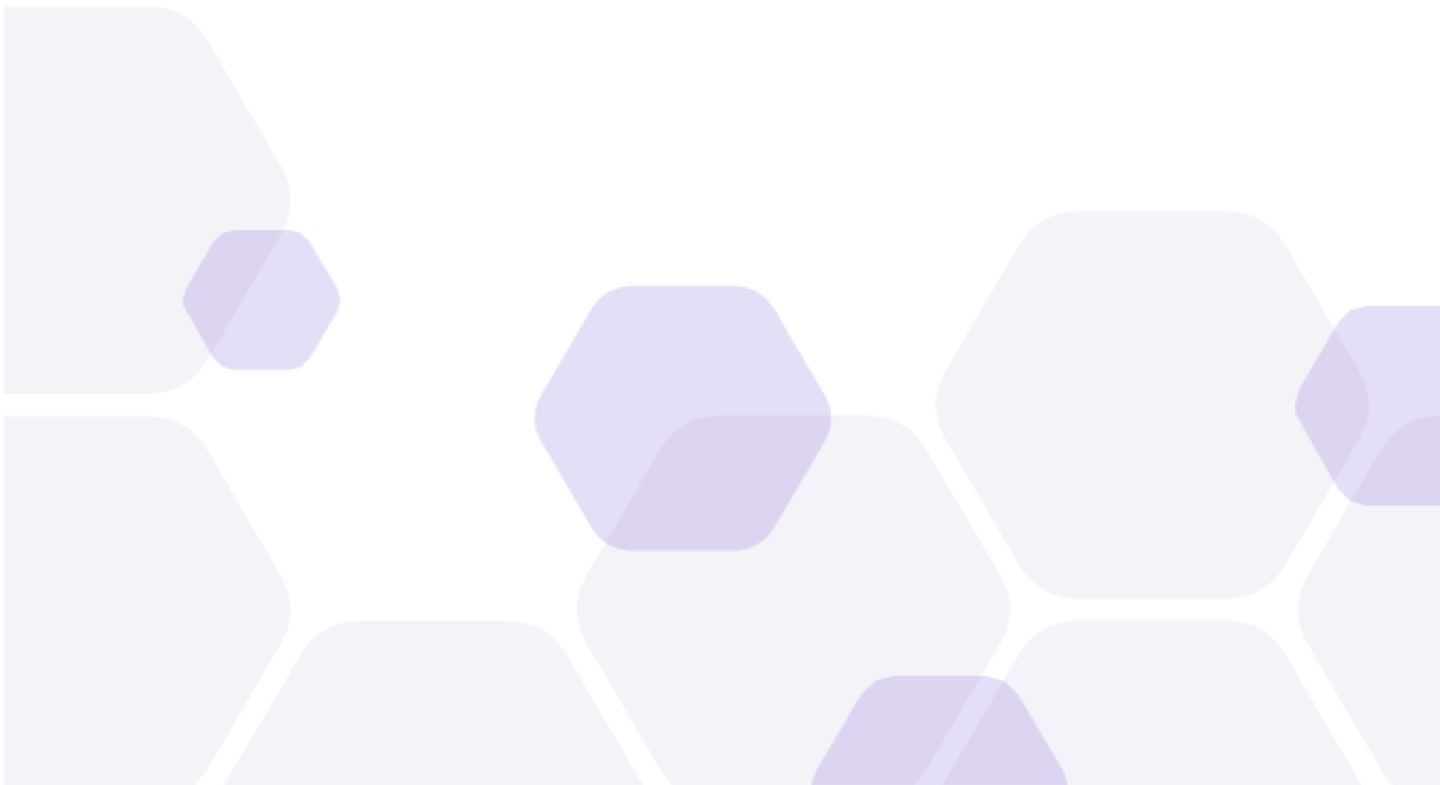
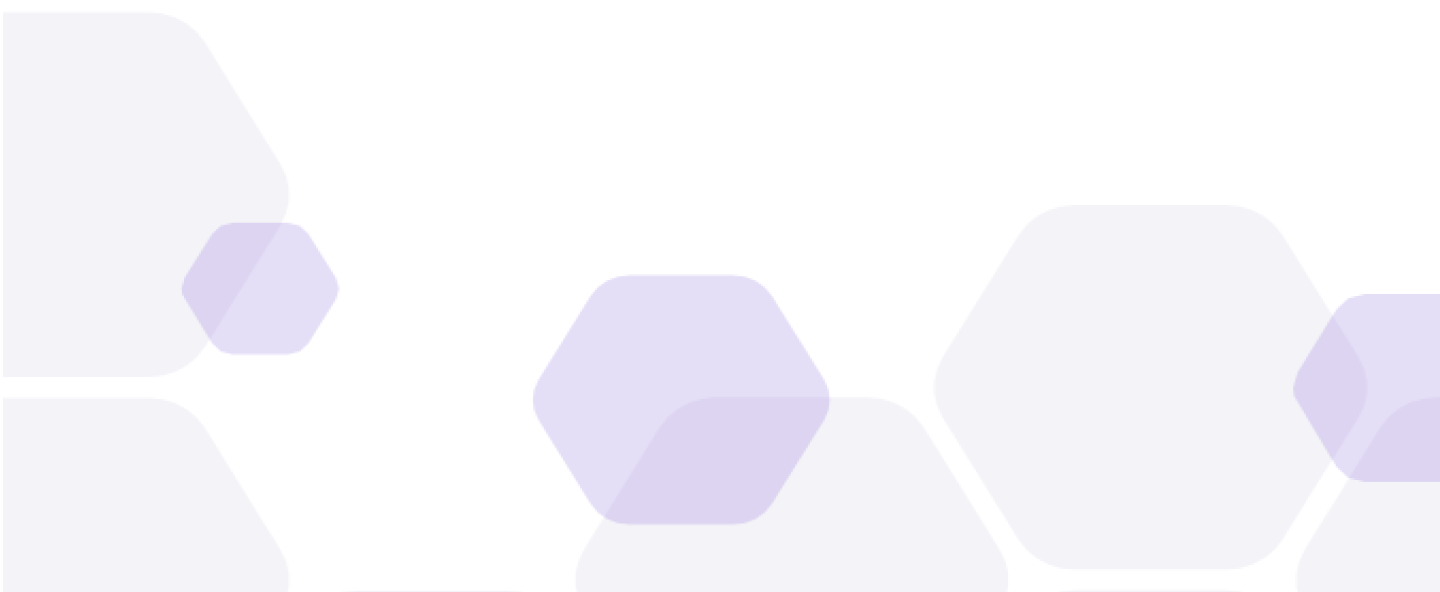
BG img modified, route home fixed, working on about us page

diff --git a/Client/src/pages/About.jsx b/Client/src/pages/About.jsx
@@ -1,8 +1,18 @@
 import React from 'react'
-
+import Bg from '../assets/BackgroundHEX.png'
 const About = () => {
   return (
-    <div>About</div>
+    <div>
+      <div className='relative'>
+        <img className='rotate-180 w-full h-2/4' src={Bg} alt="" />
+        <h1 className='absolute text-8xl underline font-semibold top-96 left-32'>About Us</h1>
+        <div className='w-100'>
+          <p className='mx-32 text-3xl text-center'>At HackPro InfoSolutions, we believe that cybersecurity is not just a necessity but a fundamental right in today's digital age. With the increasing prevalence of cyber attacks, it's crucial for individuals and businesses to stay ahead of potential threats. That's where we come in.</p>
+         
+          <p className='m-32 text-3xl text-center'>Our team comprises seasoned cybersecurity professionals and ethical hackers who are passionate about sharing their expertise and insights with aspiring cybersecurity enthusiasts. With years of experience in the field, we understand the ever-evolving landscape of cybersecurity and tailor our courses to equip you with practical, real-world skills. Whether you're a beginner looking to start your journey in cybersecurity or a seasoned professional seeking advanced training, we have a wide range of courses to cater to your needs. From ethical hacking and digital forensics to network security and cryptography, our comprehensive curriculum covers various aspects of cybersecurity to ensure you're </p>
+        </div>
+      </div>
+    </div>
   )
 }
 

diff --git a/Client/src/Components/Navbar.jsx b/Client/src/Components/Navbar.jsx
@@ -3,7 +3,7 @@ import { NavLink } from "react-router-dom";
 const Navbar = () => {
     return (
         <div className="sticky top-0 px-6 py-2 h-14 bg-slate-200 flex items-center justify-between w-full z-10">
-            <NavLink to="/HackProInfosolution/home" className="h-12 w-12">
+            <NavLink to="/HackProInfosolution/" className="h-12 w-12">
                 <svg className="h-10 w-10" width="57" height="70" viewBox="0 0 57 70" fill="none" xmlns="http://www.w3.org/2000/svg">
                     <path d="M57 52.4205V18.0858L28.6242 0.91864L0.248291 18.0858V52.4205L28.6242 69.5877" fill="#F3F5F6"/>
                     <path d="M28.4307 10.7428L38.1118 17.2919L43.2506 31.2634L39.2228 38.9767L50.4724 43.4884L56.8609 52.2203L28.4307 69.5876L0 52.2203L6.38849 43.4884L17.6385 38.9767L13.6107 31.2634L18.7495 17.2919" fill="#2F2C4D"/>

diff --git a/Client/src/App.jsx b/Client/src/App.jsx
@@ -12,7 +12,7 @@ function App() {
       <div>
         <Navbar/>
        <Routes>
-          <Route  exact path='/HackProInfosolution/home' element={<Home/>}></Route>
+          <Route  exact path='/HackProInfosolution/' element={<Home/>}></Route>
           <Route exact path='/HackProInfosolution/about' element={ <About/> }></Route>
         </Routes> 
        </div>
